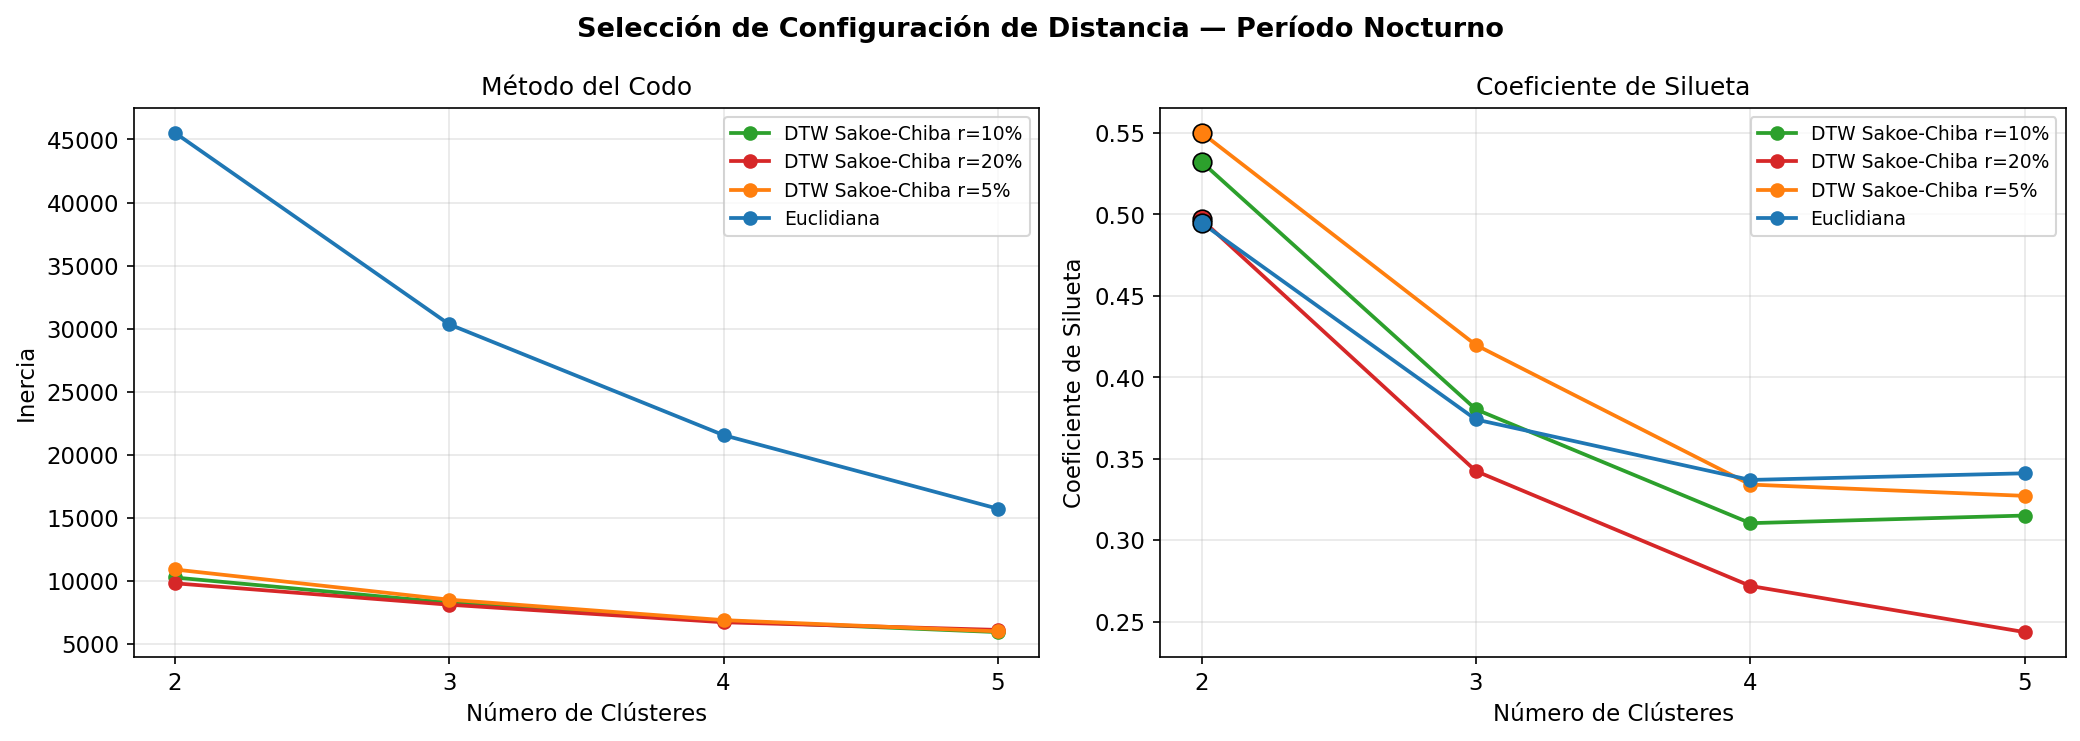
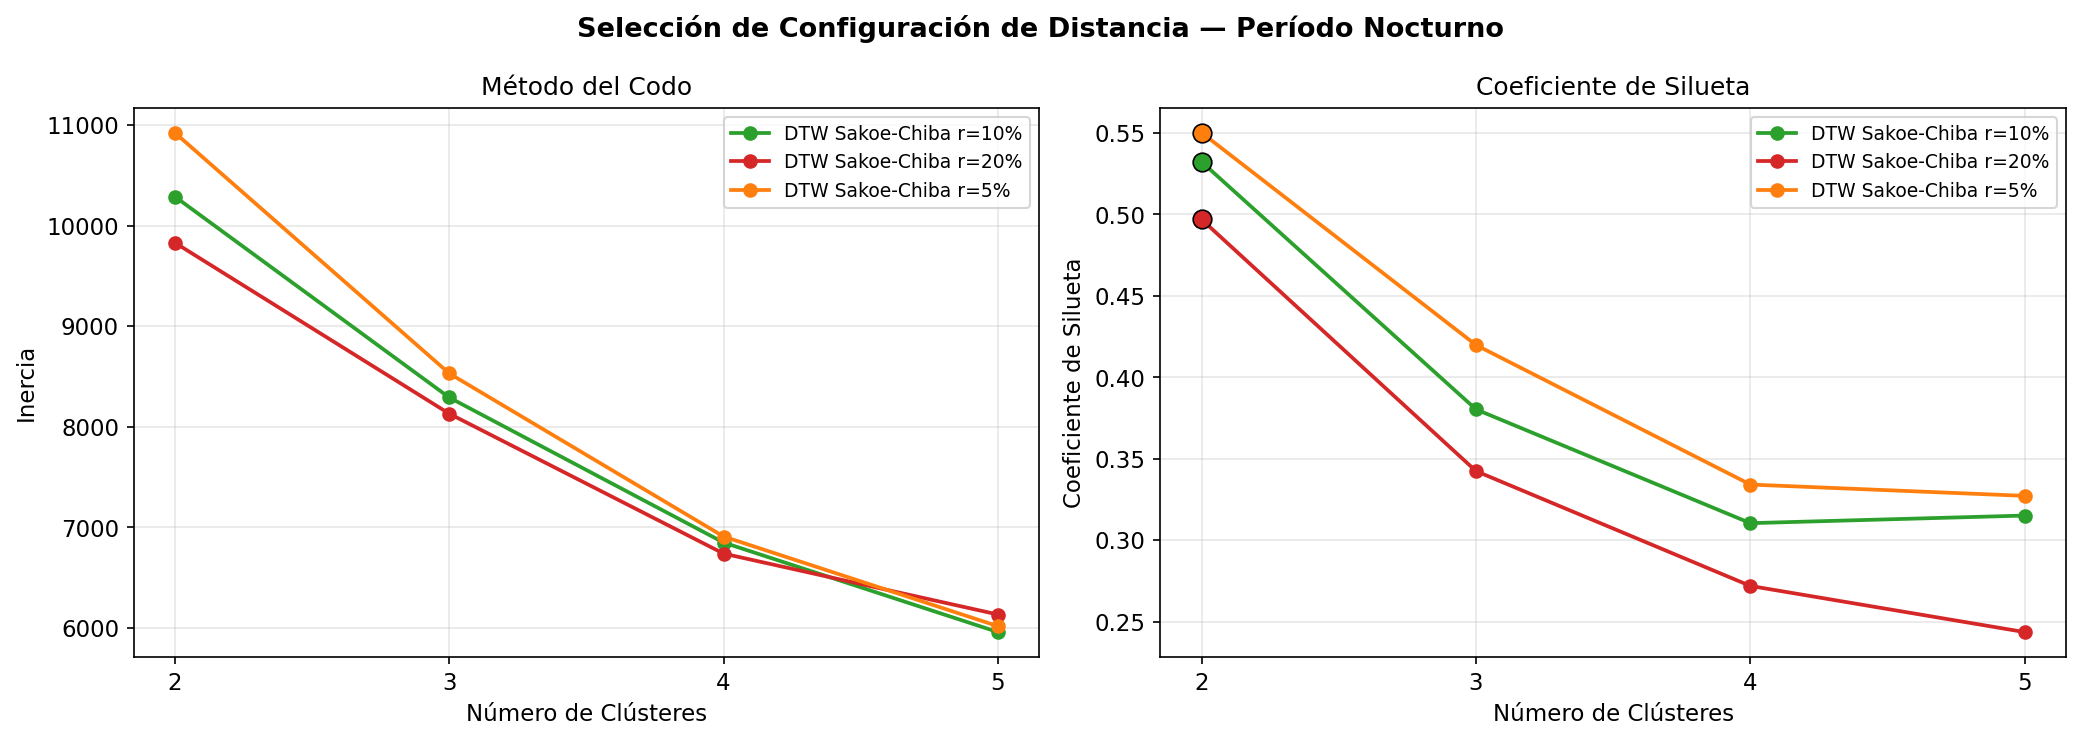
Exclude euclidean from Elbow graphs

diff --git a/src/clustering/elbow.py b/src/clustering/elbow.py
@@ -1,0 +1,11 @@
+import os
+import pandas as pd
+
+os.chdir(os.path.join(os.path.dirname(__file__), '../..'))
+
+from dtw_clustering import plot_config_comparison, CHECKPOINT_FILE, PERIODS
+
+tuning_df = pd.read_csv(CHECKPOINT_FILE, sep=';')
+for period in PERIODS:
+    plot_config_comparison(tuning_df, period, exclude_labels=['Euclidiana'])
+

diff --git a/src/clustering/dtw_clustering.py b/src/clustering/dtw_clustering.py
@@ -290,10 +290,13 @@ def _mark_best(ax, xs, ys, color):
                color=color, edgecolors='black', linewidth=0.8)
 
 
-def plot_config_comparison(tuning_df: pd.DataFrame, period: str) -> None:
+def plot_config_comparison(tuning_df: pd.DataFrame, period: str,
+                           exclude_labels: list[str] | None = None) -> None:
     """Plot elbow + silhouette curves grouped by distance config for one period."""
     period_label = PERIOD_LABELS[period]
     pdf = tuning_df[tuning_df['period'] == period]
+    if exclude_labels:
+        pdf = pdf[~pdf['config_label'].isin(exclude_labels)]
 
     _, _, n_ts, _ = _load_period_data(period)
     period_configs   = build_configs(n_ts)
@@ -393,10 +396,11 @@ def plot_convergence_sensitivity(tuning_df: pd.DataFrame, period: str) -> None:
     print(f"  Saved: {fig_path}")
 
 
-def run_plots(tuning_df: pd.DataFrame) -> None:
+def run_plots(tuning_df: pd.DataFrame,
+              exclude_labels: list[str] | None = None) -> None:
     """Generate all tuning plots for every period."""
     for period in PERIODS:
-        plot_config_comparison(tuning_df, period)
+        plot_config_comparison(tuning_df, period, exclude_labels=exclude_labels)
         plot_convergence_sensitivity(tuning_df, period)
 
 # ── Best-parameter selection ───────────────────────────────────────────────────